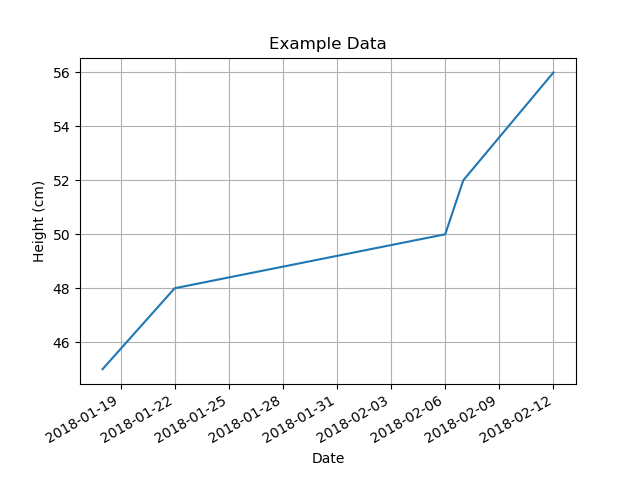
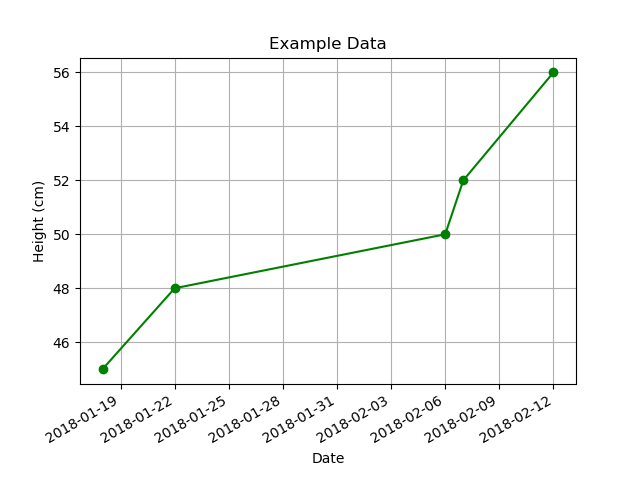
add size to markers so it's actually a scatter plot

diff --git a/scatter-plot-by-date.py b/scatter-plot-by-date.py
@@ -57,7 +57,7 @@ def main():
     # print("Vals:", ys)
 
     fig, ax = plt.subplots()
-    ax.plot(xs, ys)
+    ax.plot(xs, ys, "go-")
     ax.set(xlabel=x_axis_label, ylabel=y_axis_label, title=plot_title)
     ax.grid()
     fig.autofmt_xdate()
